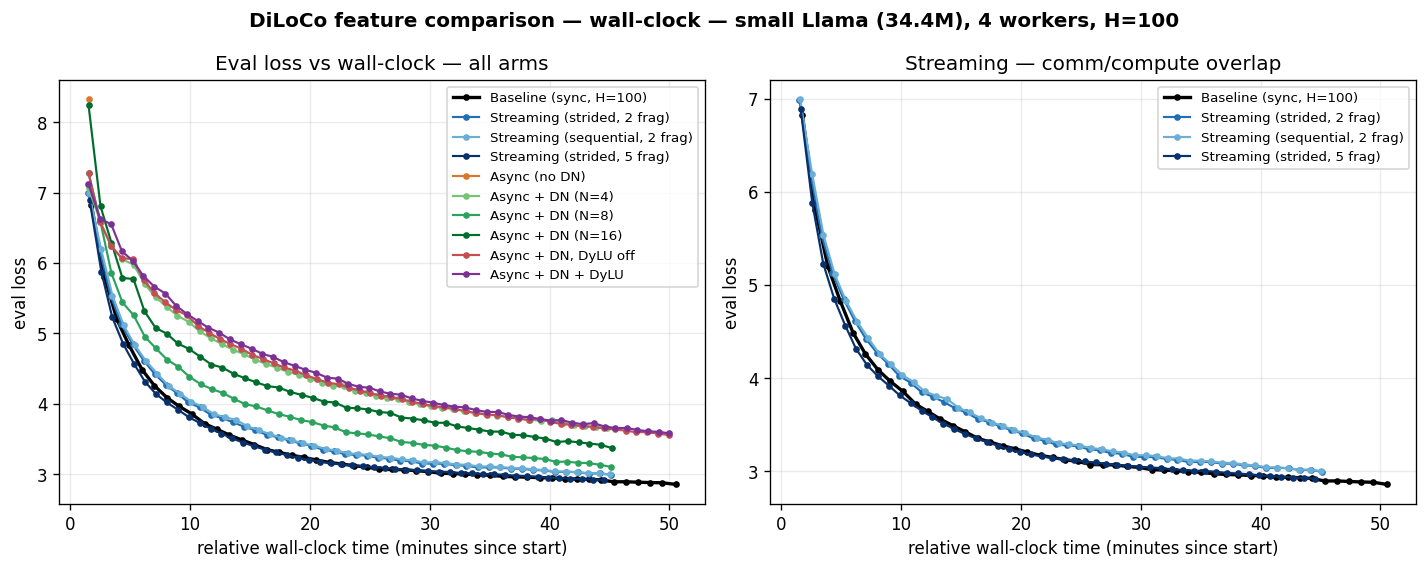
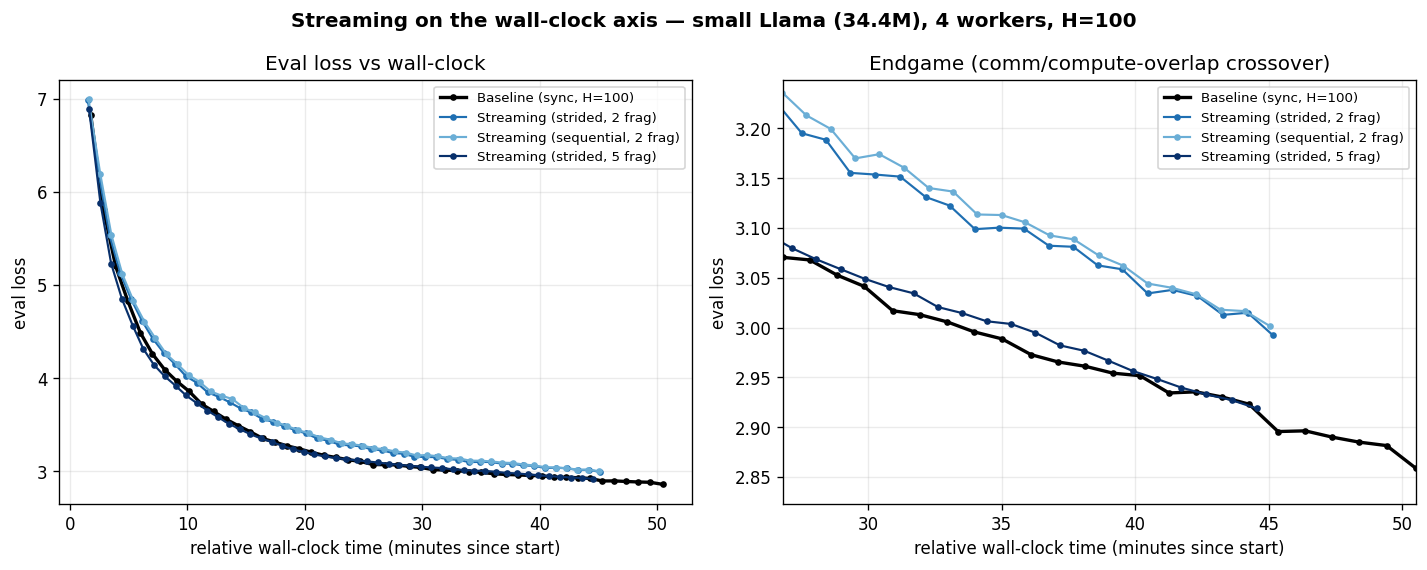
diloco_features: separate the orthogonal result axes (§3.7)
The streaming, async+DN, and DyLU arms are not directly comparable — they test
different axes under different conditions — so reporting them in one combined
table/plot implied a comparability they don't have. Split §3.7 Results into three
self-contained clusters, each with its own table, figures, and appropriate
reference:

- §3.7.1 Async + DN (equal-speed jitter): baseline + async-no-DN + DN sweep
  N=4/8/16, vs the sync baseline. loss_comparison/training_health refocused to
  these arms only (was a cross-axis "headline" mix).
- §3.7.2 Streaming (orthogonal — synchronous DiLoCo, fragmented comm): baseline +
  str2/seq2/str5, its own per-token + wall-clock comparison. plot_walltime.py is
  now streaming-only (async's wall-clock win is off-rig, §6).
- §3.7.3 DyLU (A/B under a ~2x speed spread): dylu_off control vs dylu_on, judged
  against the control — not the equal-speed baseline.

No data changes (same curves.csv); regrouped presentation + regenerated the two
refocused figures. Cross-refs (§3.4, §3.8) updated to the new subsections.

diff --git a/examples/tiny_experiments/diloco_features/analysis/plot_walltime.py b/examples/tiny_experiments/diloco_features/analysis/plot_walltime.py
@@ -1,23 +1,23 @@
 #!/usr/bin/env python3
-"""Plot eval loss vs *relative wall-clock time* per arm — the fair comparison for
-features that trade per-token quality for throughput.
+"""Streaming on the wall-clock axis: eval loss vs *relative wall-clock time*.
 
-``plot_experiment.py`` plots loss vs local step (∝ tokens), which is the right
-axis for "how good is the model per unit of data". But Streaming DiLoCo's whole
-point is overlapping communication with compute: it can be worse per token yet
-*faster in wall-clock*, so on a loss-vs-time axis a streaming arm can cross over
-and match (or beat) the sync baseline. This script renders that axis.
+``plot_experiment.py`` plots loss vs local step (∝ tokens), the right axis for
+"how good per unit of data". But Streaming DiLoCo's whole point is overlapping
+communication with compute: it can be worse per token yet *faster in wall-clock*,
+so on a loss-vs-time axis a streaming arm crosses over and matches (or beats) the
+sync baseline. This is **streaming-only** — only the synchronous arms (baseline +
+the streaming fragmentations) appear, because that is the axis where the trade is
+real. The async arms' wall-clock win lives off-rig (a heterogeneous/WAN pool,
+§6) and is deliberately not plotted here.
 
 Source: the captured per-worker TTY logs under ``runs/<arm>/worker0.log`` (rank 0
 runs eval), the same logs ``harvest.py`` and ``regen_tb.py`` read. Wall-clock is
-the row timestamp; per arm we plot elapsed seconds from that arm's first training
-row (so arms are compared on equal "time since start", independent of when they
-ran). Run from the project directory:
+the row timestamp; per arm we plot elapsed minutes from that arm's first training
+row (so arms are compared on equal "time since start"). Run from the project dir:
 
     python analysis/plot_walltime.py
 
-Writes ``assets/walltime_comparison.png`` (two panels: the headline feature set,
-and a streaming-focused view).
+Writes ``assets/walltime_comparison.png`` (full trajectory + endgame zoom).
 """
 
 import datetime
@@ -38,35 +38,20 @@ _NUM = r"[-+]?\d*\.?\d+(?:[eE][-+]?\d+)?"
 _TS = re.compile(r"^(\d{4}-\d{2}-\d{2} \d{2}:\d{2}:\d{2})")
 _EVAL = re.compile(r"\s(\d[\d,]*)\s+" + _NUM + r"\s+eval-loss:\s*(" + _NUM + r")")
 
-# Superset of arms (a subset is present in any given run). Baseline black; the
-# streaming arms in blues (the wall-clock story); the async/DN family in
-# greens/reds (the DN-buffer sweep dn4 -> dn8 -> dn16 deepens green).
+# Synchronous arms only — baseline (black) + the streaming fragmentations (blues).
+# The async/DyLU arms are a different axis and are NOT plotted here.
 LABELS = {
     "baseline": "Baseline (sync, H=100)",
     "stream_str2": "Streaming (strided, 2 frag)",
     "stream_seq2": "Streaming (sequential, 2 frag)",
     "stream_str5": "Streaming (strided, 5 frag)",
-    "async_nodn": "Async (no DN)",
-    "async_dn4": "Async + DN (N=4)",
-    "async_dn8": "Async + DN (N=8)",
-    "async_dn16": "Async + DN (N=16)",
-    "dylu_off": "Async + DN, DyLU off",
-    "dylu_on": "Async + DN + DyLU",
 }
 COLORS = {
     "baseline": "#000000",
     "stream_str2": "#1f6fb2",
     "stream_seq2": "#6baed6",
     "stream_str5": "#08306b",
-    "async_nodn": "#d9772b",
-    "async_dn4": "#74c476",
-    "async_dn8": "#2ca25f",
-    "async_dn16": "#006d2c",
-    "dylu_off": "#c44e52",
-    "dylu_on": "#7b3294",
 }
-
-STREAMING_SET = ["baseline", "stream_str2", "stream_seq2", "stream_str5"]
 
 
 def _walltime(line):
@@ -141,16 +126,24 @@ def main():
     plt.rcParams.update({"figure.dpi": 120, "font.size": 10})
     fig, axes = plt.subplots(1, 2, figsize=(12, 4.8))
 
-    # Left: the full headline feature set on a wall-clock axis.
-    panel(axes[0], present, data, "Eval loss vs wall-clock — all arms")
+    # Left: the full streaming-vs-baseline trajectory on a wall-clock axis.
+    panel(axes[0], present, data, "Eval loss vs wall-clock")
 
-    # Right: streaming-focused — the comm/compute-overlap crossover. Only the
-    # streaming arms + baseline, where the wall-clock story is the point.
-    stream_present = [s for s in STREAMING_SET if data.get(s)]
-    panel(axes[1], stream_present, data, "Streaming — comm/compute overlap")
+    # Right: endgame zoom — where the streaming curves catch (and N=5 crosses) the
+    # baseline. Restrict to the second half of the baseline's wall-clock range.
+    base = data.get("baseline", [])
+    panel(axes[1], present, data, "Endgame (comm/compute-overlap crossover)")
+    if base:
+        half_t = base[len(base) // 2][0] / 60.0
+        axes[1].set_xlim(half_t, base[-1][0] / 60.0)
+        tails = [v for s in present for x, v in data[s] if x / 60.0 >= half_t]
+        if tails:
+            lo, hi = min(tails), max(tails)
+            pad = (hi - lo) * 0.1 or 0.01
+            axes[1].set_ylim(lo - pad, hi + pad)
 
     fig.suptitle(
-        "DiLoCo feature comparison — wall-clock — small Llama (34.4M), 4 workers, H=100",
+        "Streaming on the wall-clock axis — small Llama (34.4M), 4 workers, H=100",
         fontweight="bold",
     )
     fig.tight_layout()

diff --git a/examples/tiny_experiments/diloco_features/analysis/plot_experiment.py b/examples/tiny_experiments/diloco_features/analysis/plot_experiment.py
@@ -27,23 +27,25 @@ import matplotlib.pyplot as plt
 HERE = os.path.dirname(os.path.dirname(os.path.abspath(__file__)))
 ASSETS = os.path.join(HERE, "assets")
 
-# Baseline in black; features in a distinct color each. The headline comparison:
-# sync baseline vs streaming (strided N=2 as the representative) vs async no-DN
-# vs async+DN (N=k=4) vs async+DN+DyLU. The streaming assignment/grain A/B lives
-# in analysis/streaming.py; the DyLU on/off A/B in analysis/dylu_control.py.
+# The ASYNC + DN cluster only (equal-speed workers + injected jitter): sync
+# baseline vs async-no-DN (diverges) vs the DN-buffer depth sweep N=4/8/16. The
+# other axes are reported separately — they are NOT directly comparable to these:
+# streaming (synchronous, fragmented comm) lives in analysis/streaming.py +
+# plot_walltime.py; the DyLU on/off A/B (run under a speed spread, not equal speed)
+# in analysis/dylu_control.py; the warm-start follow-up in analysis/warm_compare.py.
 LABELS = {
     "baseline": "Baseline (sync, H=100)",
-    "stream_str2": "Streaming (strided, 2 frag)",
     "async_nodn": "Async (no DN)",
     "async_dn4": "Async + DN (N=4)",
-    "dylu_on": "Async + DN + DyLU",
+    "async_dn8": "Async + DN (N=8)",
+    "async_dn16": "Async + DN (N=16)",
 }
 COLORS = {
     "baseline": "#000000",
-    "stream_str2": "#1f6fb2",
     "async_nodn": "#d9772b",
-    "async_dn4": "#2ca25f",
-    "dylu_on": "#c44e52",
+    "async_dn4": "#74c476",
+    "async_dn8": "#2ca25f",
+    "async_dn16": "#006d2c",
 }
 
 
@@ -152,7 +154,7 @@ def main():
             markers=True,
             ylim=(lo - pad, hi + pad),
         )
-    fig.suptitle(f"DiLoCo feature comparison — {suptitle}", fontweight="bold")
+    fig.suptitle(f"Async + DN — {suptitle}", fontweight="bold")
     fig.tight_layout()
     fig.savefig(os.path.join(ASSETS, "loss_comparison.png"), bbox_inches="tight")
 
@@ -160,9 +162,7 @@ def main():
     fig, axes = plt.subplots(1, 2, figsize=(12, 4.8))
     panel(axes[0], "train_loss", "Train loss", "loss", present)
     panel(axes[1], "grad_norm", "Grad norm (stability)", "||g||", present, logy=True)
-    fig.suptitle(
-        f"DiLoCo feature comparison — training health — {suptitle}", fontweight="bold"
-    )
+    fig.suptitle(f"Async + DN — training health — {suptitle}", fontweight="bold")
     fig.tight_layout()
     fig.savefig(os.path.join(ASSETS, "training_health.png"), bbox_inches="tight")
 

diff --git a/examples/tiny_experiments/diloco_features/README.md b/examples/tiny_experiments/diloco_features/README.md
@@ -359,7 +359,7 @@ use the **synthetic delay spread** (average-speed heterogeneity is the point).
 Arms 6–8 form a **DN-buffer depth sweep** at fixed staleness (N ∈ {4, 8, 16}),
 isolating buffer depth from every other knob — the paper's main config is N = k =
 4, and the sweep tests whether that default is well-tuned for the from-scratch +
-staleness regime (§3.7 finding 2: it is not — N=8 is the empirical optimum).
+staleness regime (§3.7.1: it is not — N=8 is the empirical optimum).
 
 **Deliberately not in the matrix** (kept the study focused on the two papers'
 communication mechanisms): grace (validate-only — §3.5); a 2-vs-4-worker
@@ -406,113 +406,146 @@ jitter/delay model); and large scale. These benefits are Future Directions.
 
 ### 3.7 Results
 
-Single run per arm (4 workers, 2B tokens, H=100, from scratch). Eval loss is the
-final eval; perplexity is the best (lowest) eval perplexity; "vs sync" is the
-final-eval delta from the sync baseline. The harvest + plot scripts regenerate
-the table and figures into `assets/` ([`analysis/harvest.py`](analysis/harvest.py)).
+The matrix spans **three orthogonal axes**, each its own comparison against its own
+reference — *not* a single ranking, and deliberately not one combined table:
+
+- **Streaming** restructures *synchronous* DiLoCo's communication (it keeps the
+  barrier) — a different question from dropping it, so it is not comparable to the
+  async arms.
+- **Async + DN** drops the barrier under **equal-speed** workers with injected
+  staleness — comparable to the equal-speed sync baseline.
+- **DyLU** runs under **unequal** worker speeds (a fixed ~2× spread), so it is not
+  comparable to the equal-speed arms; it is an A/B between DyLU *off* and *on* at
+  the same spread.
+
+Each is reported in its own subsection below, and the warm-start follow-up in §3.8.
+Single run per arm (4 workers, 2B tokens, H=100, from scratch); eval loss is the
+final eval, perplexity the best eval perplexity. The harvest + plot scripts
+regenerate every table and figure from `assets/curves.csv`
+([`analysis/harvest.py`](analysis/harvest.py)).
+
+#### 3.7.1 Async + the Delayed-Nesterov buffer
+
+Equal-speed workers with injected per-step jitter (staleness ≈ 3); the sync
+baseline is the reference (same equal-speed condition). "vs sync" is the final-eval
+delta.
 
 | Configuration | eval loss | perplexity | vs sync | mean staleness | notes |
 |---|---|---|---|---|---|
 | Sync DiLoCo (baseline) | 2.859 | 17.4 | — | — | reference |
-| + Streaming (strided N=2) | 2.992 | 19.9 | +0.134 | — | |
-| + Streaming (sequential N=2) | 3.001 | 20.1 | +0.142 | — | assignment A/B |
-| + Streaming (strided N=5) | 2.919 | 18.5 | +0.060 | — | finer grain |
 | Async without DN | 8.323 | 4118 | +5.46 | 3.0 | diverged (control) |
 | Async + DN (N=4) | 3.661 | 38.9 | +0.802 | 1.5 | paper default (N=k) |
 | Async + DN (N=8) | **3.107** | **22.4** | **+0.249** | 1.5 | **DN-sweep optimum** |
 | Async + DN (N=16) | 3.373 | 29.2 | +0.514 | 1.3 | over-buffered |
-| Async + DN, spread, DyLU off | 3.559 | 35.1 | +0.700 | 1.5 | control |
-| Async + DN + DyLU, spread | 3.583 | 36.0 | +0.724 | 2.5 | A/B vs control |
 
-![Eval-loss comparison: sync baseline vs streaming, async no-DN, async+DN, +DyLU — full trajectory and converged-runs endgame zoom](assets/loss_comparison.png)
+![Async eval-loss comparison: sync baseline vs async no-DN (diverges) and the DN-buffer depth sweep N=4/8/16 — full trajectory and converged-runs endgame zoom](assets/loss_comparison.png)
 
-*Headline eval-loss comparison (full + converged-runs endgame zoom) —
+*Async + DN eval-loss comparison (full + converged endgame zoom) —
 [`analysis/plot_experiment.py`](analysis/plot_experiment.py).*
 
-Three findings:
-
-**1. Streaming trades per-token quality for wall-clock — and at fine grain nearly
-erases the trade.** All streaming arms are slightly worse *per token* than the
-sync baseline (+0.06 to +0.14 eval loss), as expected: fragment-wise outer steps
-mean each parameter is updated against a slightly staler global view. But they all
-finish *faster in wall-clock* (44.5–45.1 min vs the baseline's 50.5) because the
-per-fragment barriers overlap communication with compute. On the fair
-loss-vs-wall-clock axis (figure below) the finest grain, strided
-N=5, both lands closest per token (+0.060) *and* finishes first — it essentially
-matches the baseline's loss trajectory in real time. The strided-vs-sequential
-assignment A/B is a wash at N=2 (+0.009 in favor of strided), so fragment *grain*
-matters more than assignment here.
-
-![Eval loss vs relative wall-clock time: streaming arms finish faster than the sync baseline; strided N=5 nearly matches its trajectory in real time](assets/walltime_comparison.png)
-
-*Eval loss vs relative wall-clock — the fair axis for streaming's comm/compute
-overlap ([`analysis/plot_walltime.py`](analysis/plot_walltime.py)).*
-
-![Streaming fragment count and assignment A/B: eval-loss trajectories and final-loss bars for strided N=2, sequential N=2, strided N=5 vs baseline](assets/streaming.png)
-
-*Streaming fragment count + assignment (strided vs sequential) —
-[`analysis/streaming.py`](analysis/streaming.py).*
-
-**2. The DN buffer stabilizes async, and its depth is a real, non-monotonic
-lever.** Without the Delayed-Nesterov buffer, async with induced staleness ~3
-diverges (eval 8.32, the run trips the divergence detector ~3% in) — the control
-that motivates DN. With DN the run is stable, but depth matters more than the
-paper's `N = k` default suggests: sweeping N ∈ {4, 8, 16} (figure below) is
-**non-monotonic**, with **N=8 the optimum** — it closes roughly half the
-from-scratch gap to the baseline (+0.249 vs N=4's +0.802), while N=16 *regresses*
-(+0.514). The sweet spot sits near ~2× the mean staleness: too shallow
-under-absorbs stale pseudo-gradients, too deep over-delays the Nesterov momentum.
-The paper's `N = k = 4` is thus *under*-buffered for the from-scratch + staleness
-regime, but "deeper is always better" is false. (Single seed; the N=8 < N=16
-ordering carries a noise caveat, but the N=4 → N=8 improvement is large.)
+**The DN buffer stabilizes async, and its depth is a real, non-monotonic lever.**
+Without the Delayed-Nesterov buffer, async with induced staleness ~3 diverges (eval
+8.32, the run trips the divergence detector ~3% in) — the control that motivates
+DN. With DN the run is stable, but depth matters more than the paper's `N = k`
+default suggests: sweeping N ∈ {4, 8, 16} (figure below) is **non-monotonic**, with
+**N=8 the optimum** — it closes roughly half the from-scratch gap to the baseline
+(+0.249 vs N=4's +0.802), while N=16 *regresses* (+0.514). The sweet spot sits near
+~2× the mean staleness: too shallow under-absorbs stale pseudo-gradients, too deep
+over-delays the Nesterov momentum. The paper's `N = k = 4` is thus *under*-buffered
+for the from-scratch + staleness regime, but "deeper is always better" is false.
+(Single seed; the N=8 < N=16 ordering carries a noise caveat, but the N=4 → N=8
+improvement is large.)
 
 ![DN-buffer depth sweep: eval-loss trajectories for N=4/8/16 vs the sync baseline, showing the non-monotonic optimum at N=8](assets/dn_sweep.png)
 
 *DN-buffer depth sweep — non-monotonic optimum at N=8
 ([`analysis/dn_sweep.py`](analysis/dn_sweep.py)).*
 
-**3. Async from scratch does not reach the sync baseline — but warm-started it
-does (§3.8).** Even the best async arm (N=8, +0.249) trails the sync baseline, and
-the heterogeneity arms (DyLU off/on) sit at +0.70–0.72. This is consistent with
-the from-scratch premise being the hard part for async specifically (§2.6): sync
-DiLoCo reaches the baseline from scratch, but async — even DN-stabilized and
-depth-tuned — does not, in this budget. The source papers warm-start their async
-runs from a pretrained checkpoint; **§3.8 shows that doing so closes the gap**
-(every warm async arm lands within +0.03–0.06 of a warm sync baseline), confirming
-the regime — not async — was the obstacle.
+**Async from scratch does not reach the sync baseline — but warm-started it does
+(§3.8).** Even the best async arm (N=8, +0.249) trails the baseline. This is
+consistent with the from-scratch premise being the hard part for async specifically
+(§2.6): sync DiLoCo reaches the baseline from scratch, but async — even
+DN-stabilized and depth-tuned — does not, in this budget. The source papers
+warm-start their async runs from a pretrained checkpoint; **§3.8 shows that doing
+so closes the gap** (every warm async arm within +0.03–0.06 of a warm sync
+baseline), confirming the regime — not async — was the obstacle.
 
-**On DyLU:** at this induced speed spread DyLU was **neutral** — dylu_on (+0.724)
-vs its dylu_off control (+0.700) differ by 0.024, within single-seed noise, and
-the snapshot staleness ordering even inverts. This matches the design's own caveat
-(§3.5–3.6): DyLU's payoff is tail-latency reduction under genuine, large-scale
-worker heterogeneity, which a homogeneous 4×4090 loopback rig with a small
-injected delay spread barely exercises. We report the mechanism as *functional*
-(adaptive per-worker `sync_every`; dylu_on takes more sync rounds, 760 vs 616) but
-its quality benefit is not measurable here.
+![Training health for the async arms: train-loss trajectory and grad-norm (log scale)](assets/training_health.png)
 
-![DyLU off vs on at a fixed speed spread: eval-loss trajectories against the sync baseline](assets/dylu_control.png)
+*Training health (async arms) — train loss + grad norm; the no-DN control's
+grad-norm blow-up is the divergence ([`analysis/plot_experiment.py`](analysis/plot_experiment.py)).*
 
-*DyLU off vs on at a fixed ~2× speed spread —
+#### 3.7.2 Streaming (orthogonal axis: synchronous DiLoCo, fragmented comm)
+
+Streaming is **not** an async arm — it keeps the synchronous barrier and instead
+splits each sync into block-boundary fragments sent across the compute window. It
+is a separate axis, compared to the sync baseline on its own terms (equal speed, no
+jitter); it does not belong in the async table above.
+
+| Configuration | eval loss | perplexity | vs sync | wall-clock | notes |
+|---|---|---|---|---|---|
+| Sync DiLoCo (baseline) | 2.859 | 17.4 | — | 50.5 min | reference |
+| Streaming (strided N=2) | 2.992 | 19.9 | +0.134 | 45.1 min | |
+| Streaming (sequential N=2) | 3.001 | 20.1 | +0.142 | 45.1 min | assignment A/B |
+| Streaming (strided N=5) | 2.919 | 18.5 | +0.060 | 44.5 min | finer grain |
+
+**Streaming trades per-token quality for wall-clock — and at fine grain nearly
+erases the trade.** All streaming arms are slightly worse *per token* (+0.06 to
++0.14 eval), as expected: fragment-wise outer steps update each parameter against a
+slightly staler global view. But they all finish *faster in wall-clock* (44.5–45.1
+min vs 50.5) because the per-fragment barriers overlap communication with compute.
+On the fair loss-vs-wall-clock axis (figure below) the finest grain, strided N=5,
+lands closest per token (+0.060) *and* finishes first — it essentially matches the
+baseline's loss trajectory in real time. The strided-vs-sequential assignment A/B
+is a wash at N=2 (+0.009 in favor of strided), so fragment *grain* matters more
+than assignment here.
+
+![Streaming on the wall-clock axis: streaming arms finish faster than the sync baseline; strided N=5 crosses to match its trajectory in real time (full + endgame zoom)](assets/walltime_comparison.png)
+
+*Streaming eval loss vs relative wall-clock — the fair axis for the comm/compute
+overlap ([`analysis/plot_walltime.py`](analysis/plot_walltime.py)).*
+
+![Streaming fragment count and assignment A/B: eval-loss trajectories and final-loss bars for strided N=2, sequential N=2, strided N=5 vs baseline](assets/streaming.png)
+
+*Streaming fragment count + assignment (strided vs sequential), per token —
+[`analysis/streaming.py`](analysis/streaming.py).*
+
+#### 3.7.3 DyLU (A/B under heterogeneous worker speeds)
+
+Unlike every arm above (equal average speed), the DyLU arms run under a **fixed ~2×
+speed spread** (a 4090+3090-style mix). They are therefore **not** comparable to the
+equal-speed baseline or the jitter async arms — this is a controlled A/B between
+DyLU **off** and **on** at the *same* spread, with `dylu_off` as the control.
+
+| Configuration | eval loss | perplexity | vs DyLU-off control | mean staleness |
+|---|---|---|---|---|
+| Async + DN, spread, DyLU off | 3.559 | 35.1 | — (control) | 1.5 |
+| Async + DN, spread, DyLU on | 3.583 | 36.0 | +0.024 | 2.5 |
+
+![DyLU off vs on at a fixed ~2x speed spread: eval-loss trajectories, with the sync baseline as a faint reference](assets/dylu_control.png)
+
+*DyLU off vs on at a fixed ~2× speed spread (A/B) —
 [`analysis/dylu_control.py`](analysis/dylu_control.py).*
 
-![Training health: train-loss trajectory and grad-norm (log scale) for all arms](assets/training_health.png)
+**DyLU was neutral here.** dylu_on (3.583) vs its dylu_off control (3.559) differ by
+0.024 — within single-seed noise — and the snapshot staleness ordering even
+inverts. This matches the design's own caveat (§3.5–3.6): DyLU's payoff is
+tail-latency reduction under genuine, large-scale worker heterogeneity, which a
+homogeneous 4×4090 loopback rig with a small injected delay spread barely exercises.
+We report the mechanism as *functional* (adaptive per-worker `sync_every`; dylu_on
+takes more sync rounds, 760 vs 616) but its quality benefit is not measurable here.
 
-*Training health — train loss + grad norm (decreasing/stable, not exploding) —
-[`analysis/plot_experiment.py`](analysis/plot_experiment.py).*
-
-All figures above are regenerated from the committed `assets/curves.csv` by the
-named `analysis/*.py` scripts. One more, `grace_hist.png`, is **`validate`-only**
-(the grace coalescing histogram — coalesces near-simultaneous finishers, proceeds
-immediately when alone; a mechanism check, not a results figure):
-[`analysis/grace_batches.py`](analysis/grace_batches.py).
+(One more figure, `grace_hist.png`, is **`validate`-only** — the grace coalescing
+histogram, a mechanism check, not a results figure:
+[`analysis/grace_batches.py`](analysis/grace_batches.py).)
 
 ---
 
 ### 3.8 Warm-start: closing the from-scratch async gap
 
-Finding 3 above leaves the study's central question open: async-from-scratch
-trails the sync baseline even at the DN optimum — is that *async*, or is it the
-*from-scratch regime* (§2.6)? To test the pre-registered regime hypothesis
+The async-from-scratch result (§3.7.1) leaves the study's central question open:
+async trails the sync baseline even at the DN optimum — is that *async*, or is it
+the *from-scratch regime* (§2.6)? To test the pre-registered regime hypothesis
 directly, we pretrained the **same architecture** with plain 4×DDP to ~500M tokens
 (≈1× Chinchilla; [`templates/configs/warm_pretrain.yaml`](templates/configs/warm_pretrain.yaml)),
 then re-ran the async arms **and a warm sync baseline** from that checkpoint — all
